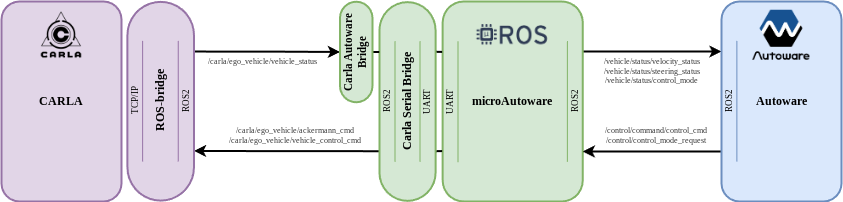
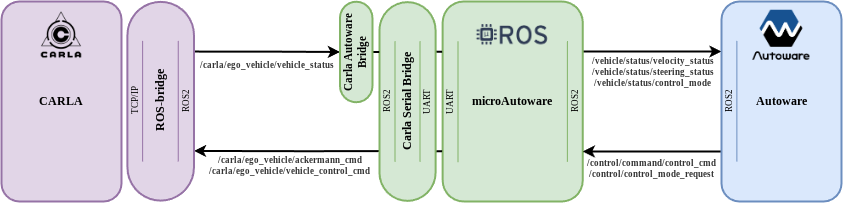
README update

diff --git a/README.md b/README.md
@@ -12,7 +12,8 @@ microAutoware is a package based in micro-ROS to bring the Autoware Core/Univers
 ![banner](figures/architecture_dark.png#gh-dark-mode-only)
 ![banner](figures/architecture.png#gh-light-mode-only)
 
-![microAutoware RTOS diagram](figures/RTOS_blockdiagram.png)
+![banner](figures/RTOS_blockdiagram_dark.png#gh-dark-mode-only)
+![banner](figures/RTOS_blockdiagram.png#gh-light-mode-only)
 
 
 ## microAutoware lib
@@ -79,9 +80,9 @@ STM32CubeIDE 1.15.1
 
 ![microAutoware HIL testbed](figures/testbed.png)
 
-![microAutoware HIL architecture details](figures/HIL_details.png)
+![banner](figures/HIL_details_dark.png#gh-dark-mode-only)
+![banner](figures/HIL_details.png#gh-light-mode-only)
 
-![microAutoware HIL testbed block diagram](figures/HIL_blockdiagram.png)
 ![banner](figures/HIL_blockdiagram_dark.png#gh-dark-mode-only)
 ![banner](figures/HIL_blockdiagram.png#gh-light-mode-only)
 
